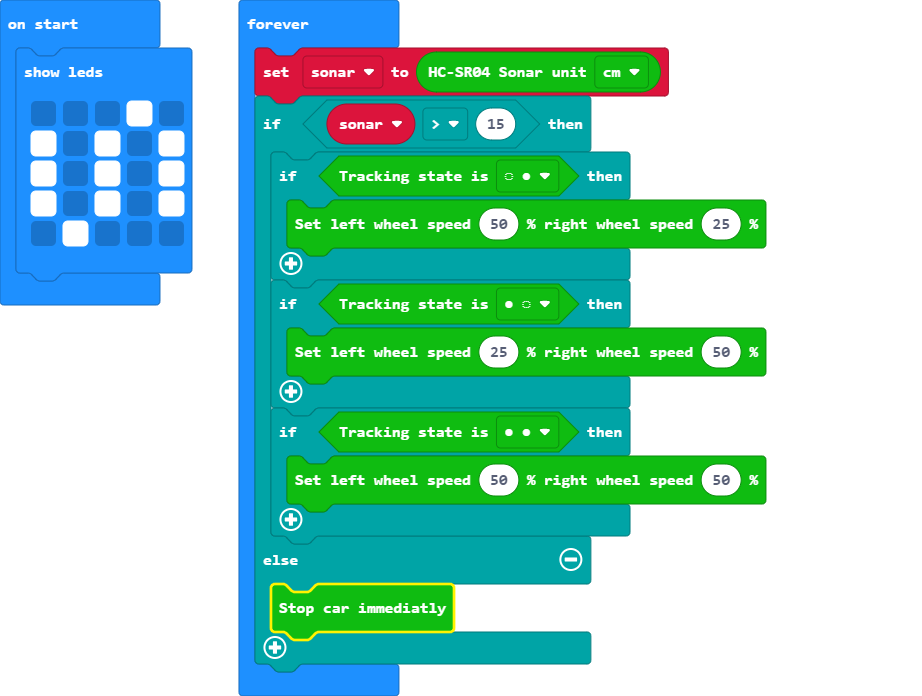
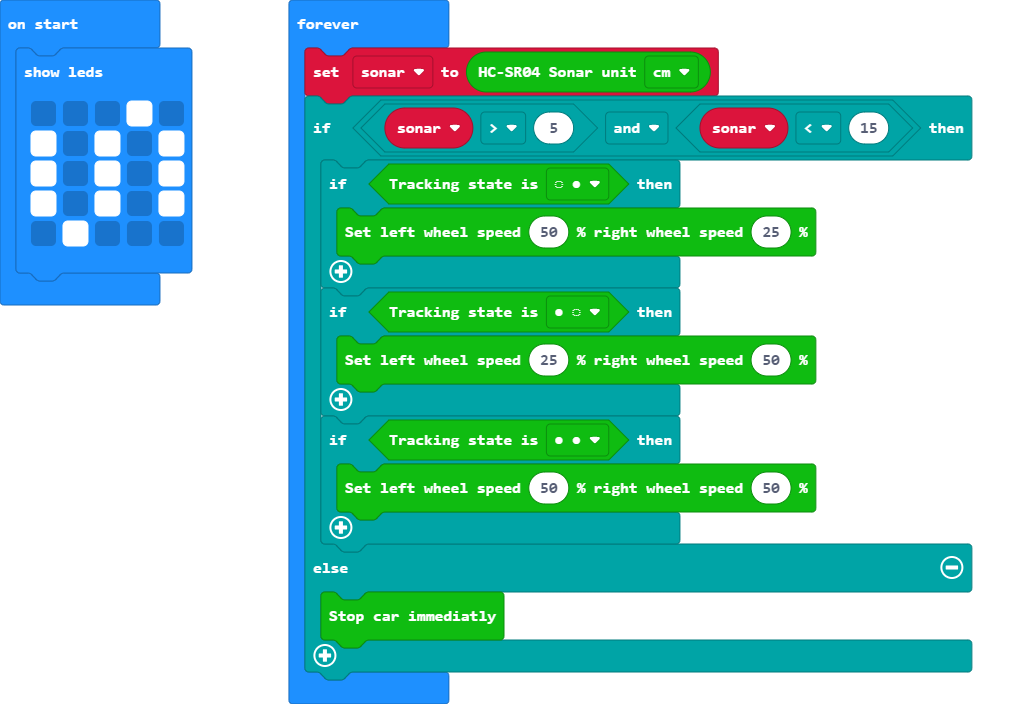
Update main.blocks, main.ts

Changed region(s): [[0.243, 0.0, 0.9718, 1.0], [0.0, 0.0, 0.2126, 0.4526], [0.6377, 0.9052, 0.9718, 0.9655]]

diff --git a/main.ts b/main.ts
@@ -8,7 +8,7 @@ basic.showLeds(`
     `)
 basic.forever(function () {
     sonar = cuteBot.ultrasonic(cuteBot.SonarUnit.Centimeters)
-    if (sonar > 15) {
+    if (sonar > 5 && sonar < 15) {
         if (cuteBot.tracking(cuteBot.TrackingState.L_unline_R_line)) {
             cuteBot.motors(50, 25)
         }
